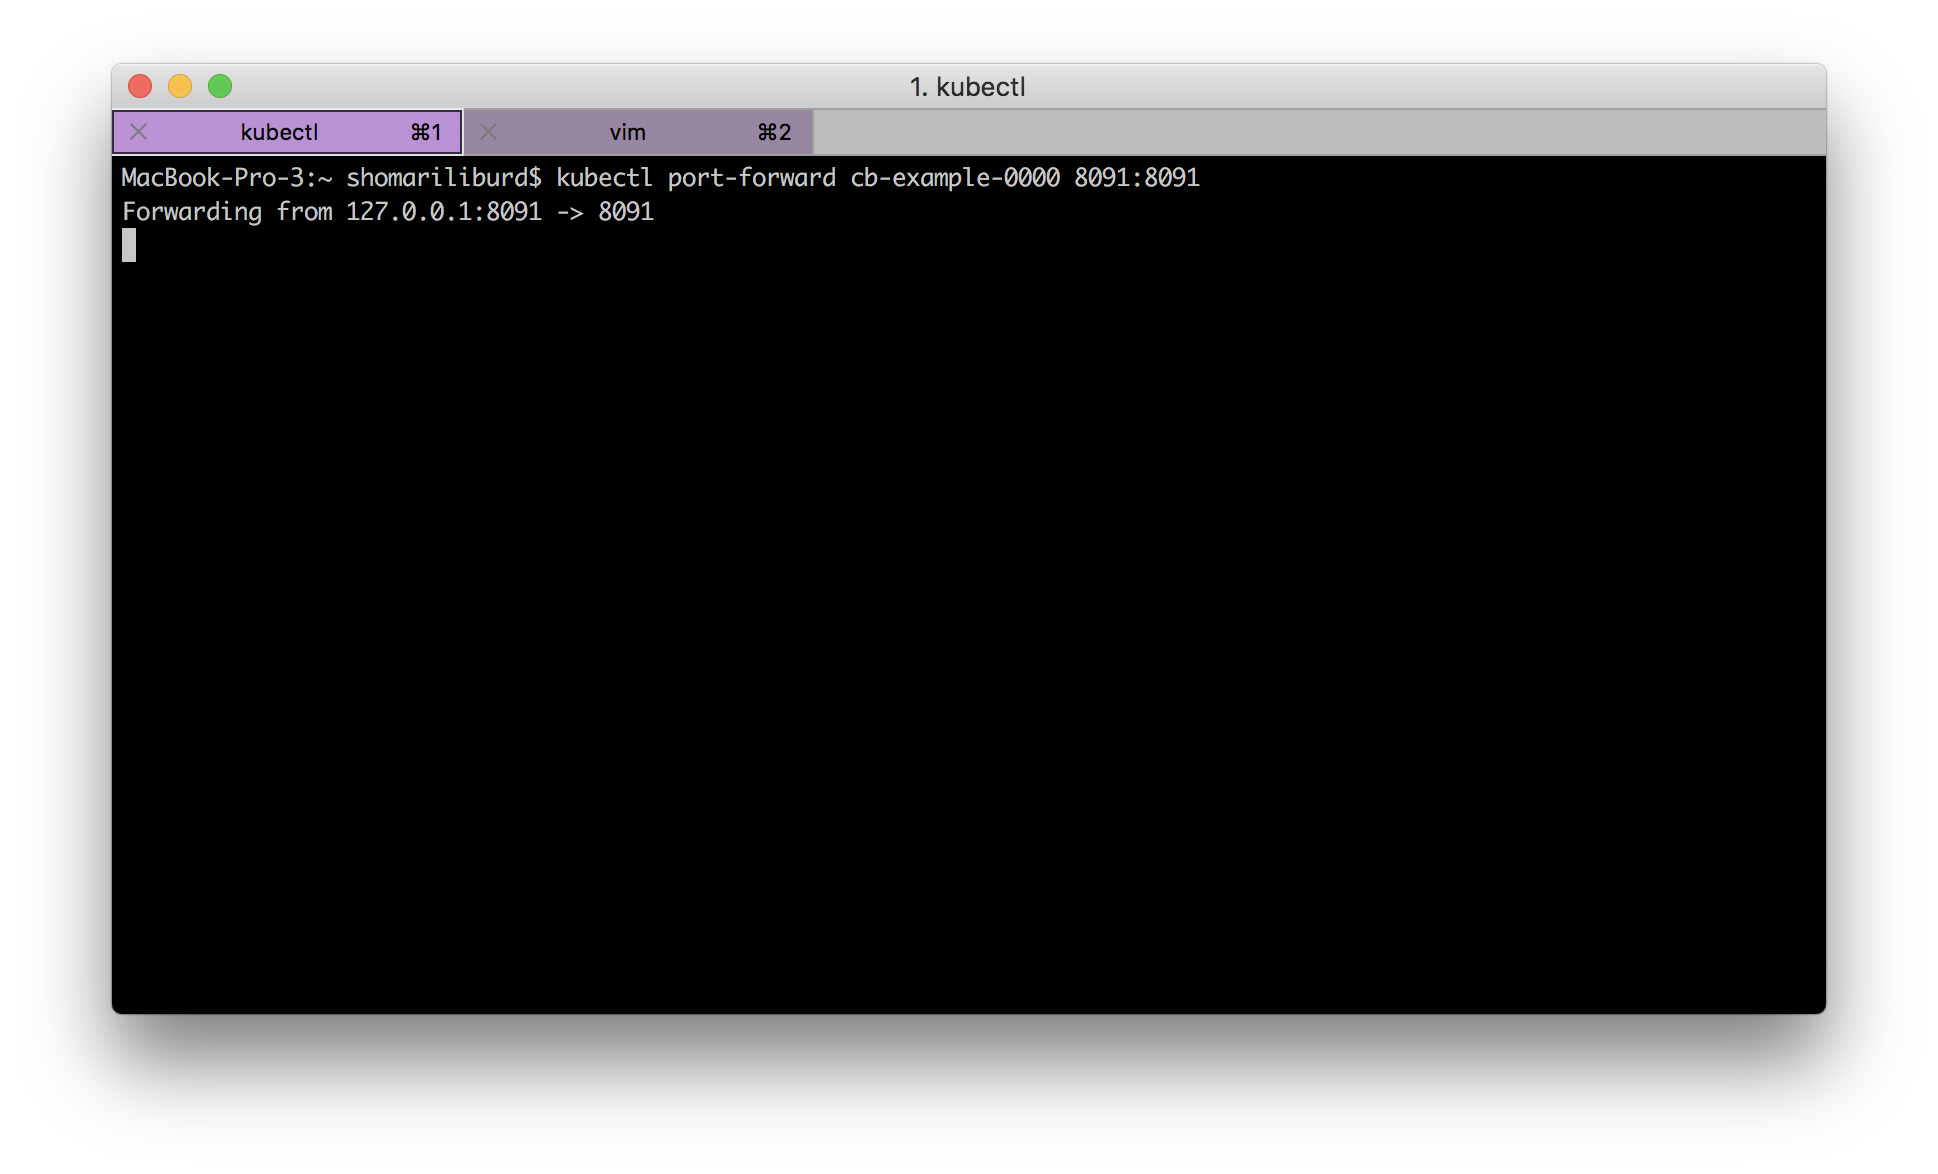
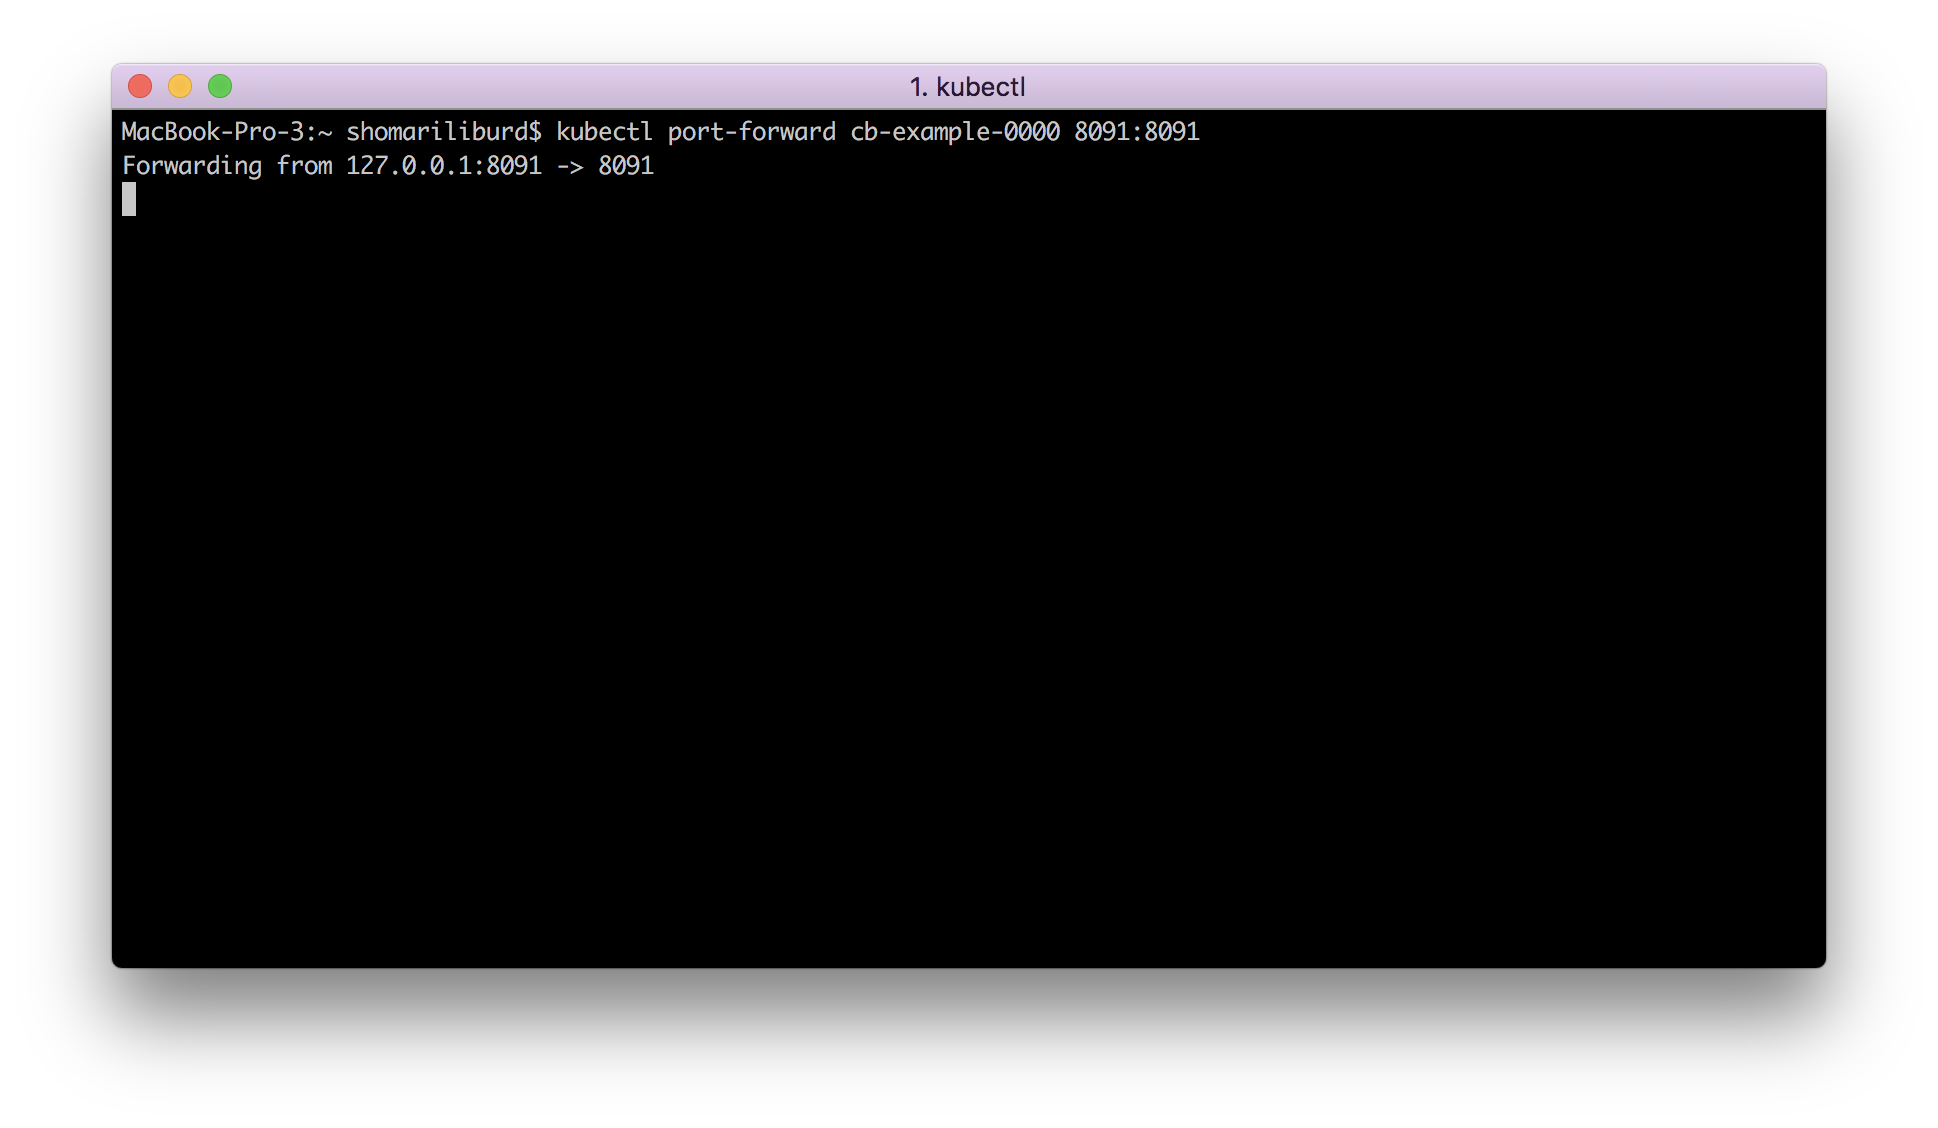
Significant updates to the README.  Adding and cleaned up some screenshots.

Changed region(s): [[0.031, 0.0621, 0.9598, 0.2172], [0.0619, 0.8378, 0.9288, 0.8688]]

diff --git a/README.md b/README.md
@@ -1,33 +1,40 @@
 # google-gke-couchbase
 
-This is a walkthrough of setting the [Couchbase Operator](https://blog.couchbase.com/introducing-couchbase-operator/) up on [Google Kubernetes Engine (GKE)](https://cloud.google.com/kubernetes-engine/).
+This walkthrough will illustrate how simple it is to setup and manage Couchbase clusters using the [Couchbase Operator](https://blog.couchbase.com/introducing-couchbase-operator/) within the [Google Kubernetes Engine (GKE)](https://cloud.google.com/kubernetes-engine/) on the [Google Cloud Platform (GCP)](https://cloud.google.com/sdk/). 
 
-## Setup glcoud CLI
+## Install and Setup the gcloud CLI
 
-You will need a GCP account.  We also need to install glcoud.  Instructions for installing the Google Cloud SDK that includes gcloud are [here](https://cloud.google.com/sdk/).
+We will need a [(GCP)](https://cloud.google.com/sdk/) account and then we will [install glcoud](https://cloud.google.com/sdk/).
 
-To set up your Google environment, run the command (be sure to choose a default region):
+## Setup your GCP Environment
+We setup our environment with a single command (be sure to choose a default region):
 
     gcloud init
 
 ## Deploy a GKE Cluster
+Creating a cluster is straightfoward, using the command:
 
     gcloud container clusters create mycluster --machine-type=n1-standard-4    
 
-## Configure kubectl
+## Install and Setup kubectl
 
-Now that we have a cluster, the next step is to install and set up kubectl up so it can connect to the cluster.
+With our GKE cluster created we have to install and set up kubectl, up so it can connect to the cluster. Two commands will do that for us:
 
     gcloud components install kubectl
     gcloud container clusters get-credentials mycluster
 
+![getcredentials](/images/GKE_get_credentials.png)
+
+We verify our kubectl with:
+
     kubectl get nodes
 
-That should show three nodes:
+We should see three nodes:
 
 ![getnodes](/images/GKE_getnodes.png)
 
-GKE includes sophisticated RBAC to limit permissions.  The Operator creates resources in your cluster.  We'll need to grant it permissions to do so.
+## Setup GKE Role-based Access Control (RBAC)
+GKE supports a sophisticated RBAC in order to limit permissions.  The Couchbase Operator creates resources in our cluster, so  we will need to grant it the permission to do so:
 
     kubectl create clusterrolebinding cluster-admin-binding \
       --clusterrole cluster-admin \
@@ -37,48 +44,54 @@ GKE includes sophisticated RBAC to limit permissions.  The Operator creates reso
       --clusterrole=cluster-admin \
       --serviceaccount=default:default
 
-## Deploying the Operator
+## Deploying the Couchbase Operator
 
-Once you have an GKE cluster deployed and a running kubectl, you're ready to deploy the Operator.  The documentation on that is [here](http://docs.couchbase.com/prerelease/couchbase-operator/beta/overview.html).
+Now that we have all the environment prerequisites in place, we are ready to deploy the Couchbase Operator.
 
-To create the deployment and check it deployed, run this:
+We deploy the Couchbase Operator and then verify it with the following commands:
 
     kubectl create -f https://s3.amazonaws.com/packages.couchbase.com/kubernetes/beta/operator.yaml
     kubectl get deployments
 
-You should see something like this:
+We can now see that the Couchbase Operator is deployed.
 
 ![operatordeployed](/images/GKE_operator_get_deployments.png)
 
 ## Deploying a Couchbase Cluster
 
-We're there!  Time to get a live cluster.  Run this:
+We are now in the final stretch! Next we will create a Couchbase cluster with the following commands:
 
     kubectl create -f https://s3.amazonaws.com/packages.couchbase.com/kubernetes/beta/secret.yaml
     kubectl create -f https://s3.amazonaws.com/packages.couchbase.com/kubernetes/beta/couchbase-cluster.yaml
 
-That should give this:
+We should see something like this:
 
 ![couchbasecreated](/images/GKE_cluster_created.png)
 
-You can view the Couchbase and operator pods by running:
+We can view the all of the pods by running:
 
     kubectl get pods
 
+![getpods](/images/GKE_get_pods.png)
+
 ## Accessing the Couchbase Web UI
 
-You've now got a cluster.  But to use it you probably want to set up port forwarding.  To do that run:
+Now we have a Couchbase cluster running!
+To use the web console we will need setup port forwarding.  We do that with the kubectl command:
 
-    kubectl port-forward cb-example-0000 8091:8091
+    kubectl port-forward cb-example-0000 8091:809e
 
-Leave that command running:
+(Make sure to leave the command running in the terminal):
 
 ![portforward](/images/GKE_port_forward.png)
 
-Now open up a browser to http://localhost:8091
+Now we open up a browser to http://localhost:8091
 
 ![loginscreen](/images/GKE_loginscreen.png)
 
-The username is `Administrator` and password is `password`.  And now you're in!
+We will login using username=`Administrator` and password=`password`.  
+We are in! Click the 'Servers' link on the left side and we should see our clusters running.
 
 ![webui](/images/GKE_webui.png)
+
+Fin
